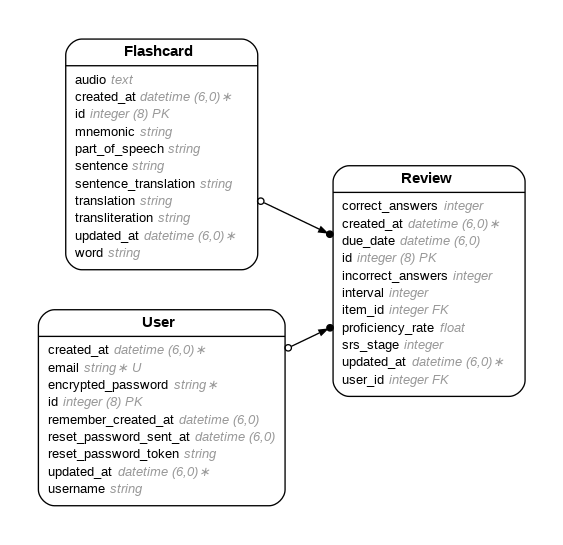
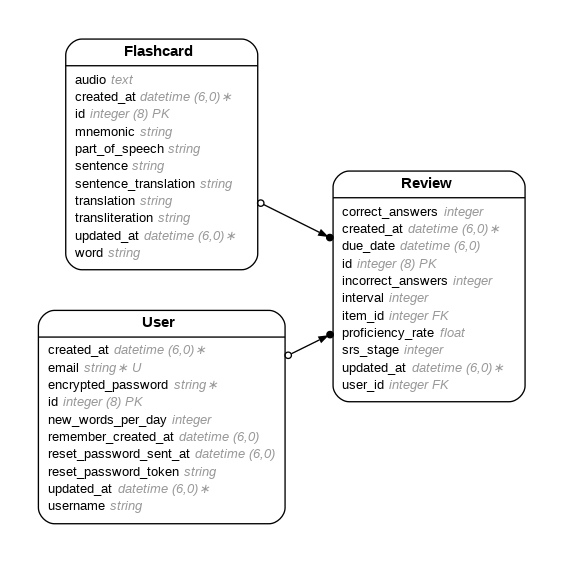
adding column new reviews per day

diff --git a/db/schema.rb b/db/schema.rb
@@ -10,7 +10,7 @@
 #
 # It's strongly recommended that you check this file into your version control system.
 
-ActiveRecord::Schema[8.0].define(version: 2025_08_29_024623) do
+ActiveRecord::Schema[8.0].define(version: 2025_08_29_120952) do
   # These are extensions that must be enabled in order to support this database
   enable_extension "pg_catalog.plpgsql"
 
@@ -191,6 +191,7 @@ ActiveRecord::Schema[8.0].define(version: 2025_08_29_024623) do
     t.string "username"
     t.datetime "created_at", null: false
     t.datetime "updated_at", null: false
+    t.integer "new_words_per_day", default: 10
     t.index ["email"], name: "index_users_on_email", unique: true
     t.index ["reset_password_token"], name: "index_users_on_reset_password_token", unique: true
   end

diff --git a/app/models/user.rb b/app/models/user.rb
@@ -5,6 +5,7 @@
 #  id                     :bigint           not null, primary key
 #  email                  :string           default(""), not null
 #  encrypted_password     :string           default(""), not null
+#  new_words_per_day      :integer          default(10)
 #  remember_created_at    :datetime
 #  reset_password_sent_at :datetime
 #  reset_password_token   :string

diff --git a/db/migrate/20250829120952_add_new_words_per_day_to_users.rb b/db/migrate/20250829120952_add_new_words_per_day_to_users.rb
@@ -1,0 +1,5 @@
+class AddNewWordsPerDayToUsers < ActiveRecord::Migration[8.0]
+  def change
+    add_column :users, :new_words_per_day, :integer, default: 10
+  end
+end
